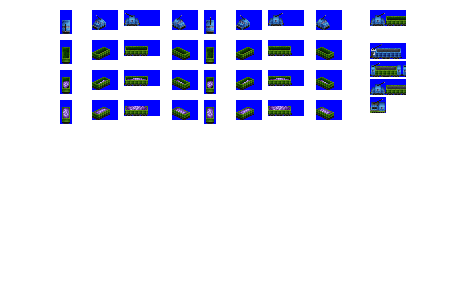
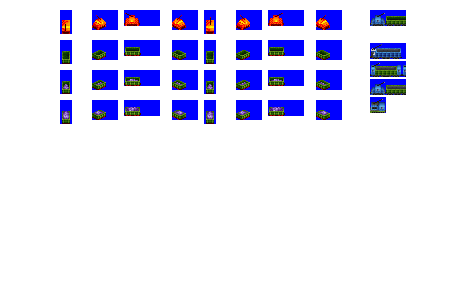
Change: 4/8 long wagons for Hake Lake Feldbahn, also update graphics generation pipelines to insert chassis sprites

diff --git a/src/gestalt_graphics/pipelines.py b/src/gestalt_graphics/pipelines.py
@@ -86,44 +86,16 @@ class ExtendSpriterowsForCompositedCargosPipeline(Pipeline):
         super(ExtendSpriterowsForCompositedCargosPipeline, self).__init__("extend_spriterows_for_composited_cargos_pipeline")
 
     def comp_chassis_and_body(self, body_image):
+        if self.vehicle_unit.chassis is None:
+            return body_image
+
         print(self.chassis_input_path, self.consist.id)
-        return body_image
-        """
         crop_box_input_1 = (0,
                             10,
                             self.sprites_max_x_extent,
                             10 + graphics_constants.spriterow_height)
         chassis_image = Image.open(self.chassis_input_path).crop(crop_box_input_1)
-
-        # roof is composited (N.B. gangways are not, just draw them in vehicle sprite, handling asymmetric railcar cases would be one step too far on automation)
-        if self.vehicle_unit.roof is not None:
-            crop_box_roof_dest = (0,
-                                0,
-                                self.sprites_max_x_extent,
-                                graphics_constants.spriterow_height)
-            roof_image = Image.open(self.roof_input_path).crop(crop_box_input_1)
-
-            # the roof image has false colour pixels to aid drawing; remove these by converting to white, also convert any blue to white
-            roof_image = roof_image.point(lambda i: 255 if i == 226 else i)
-
-            # create a mask so that we paste only the roof pixels over the chassis (no blue pixels)
-            roof_mask = roof_image.copy()
-            roof_mask = roof_mask.point(lambda i: 0 if i == 255 else 255).convert("1") # the inversion here of blue and white looks a bit odd, but potato / potato
-            chassis_image.paste(roof_image, crop_box_roof_dest, roof_mask)
-
-        # chassis and roofs are *always* symmetrical, with 4 angles drawn; for vehicles with asymmetric bodies, copy and paste to provide all 8 angles
-        if self.vehicle_unit.symmetry_type == 'asymmetric':
-            crop_box_input_2 = (self.global_constants.spritesheet_bounding_boxes_symmetric_unreversed[4][0],
-                                0,
-                                self.sprites_max_x_extent,
-                                0 + graphics_constants.spriterow_height)
-            chassis_image_2 = chassis_image.copy().crop(crop_box_input_2)
-
-            crop_box_input_2_dest = (self.global_constants.spritesheet_bounding_boxes_asymmetric_unreversed[0][0],
-                                     0,
-                                     self.global_constants.spritesheet_bounding_boxes_asymmetric_unreversed[0][0] + chassis_image_2.size[0],
-                                     0 + graphics_constants.spriterow_height)
-            chassis_image.paste(chassis_image_2, crop_box_input_2_dest)
+        #chassis_image.show()
 
         # the body image has false colour pixels for the chassis, to aid drawing; remove these by converting to white, also convert any blue to white
         body_image = body_image.point(lambda i: 255 if (i in range(178, 192) or i == 0) else i)
@@ -142,13 +114,12 @@ class ExtendSpriterowsForCompositedCargosPipeline(Pipeline):
 
         #chassis_image.show()
         return chassis_image
-        """
 
     def add_generic_spriterow(self):
         crop_box_source = (0,
                            self.base_offset,
-                           graphics_constants.spritesheet_width,
-                            self.base_offset + graphics_constants.spriterow_height)
+                           self.sprites_max_x_extent,
+                           self.base_offset + graphics_constants.spriterow_height)
         vehicle_generic_spriterow_input_image = self.comp_chassis_and_body(self.vehicle_source_image.copy().crop(crop_box_source))
         # vehicle_generic_spriterow_input_image.show() # comment in to see the image when debugging
         vehicle_generic_spriterow_input_as_spritesheet = self.make_spritesheet_from_image(vehicle_generic_spriterow_input_image)
@@ -164,8 +135,8 @@ class ExtendSpriterowsForCompositedCargosPipeline(Pipeline):
         # to be more similar to piece cargo handling, but using recolour not actual sprites
         crop_box_source = (0,
                            self.base_offset,
-                           graphics_constants.spritesheet_width,
-                            self.base_offset + graphics_constants.spriterow_height)
+                           self.sprites_max_x_extent,
+                           self.base_offset + graphics_constants.spriterow_height)
         vehicle_livery_only_spriterow_input_image = self.comp_chassis_and_body(self.vehicle_source_image.copy().crop(crop_box_source))
         # vehicle_generic_spriterow_input_image.show() # comment in to see the image when debugging
         vehicle_livery_only_spriterow_input_as_spritesheet = self.make_spritesheet_from_image(vehicle_livery_only_spriterow_input_image)
@@ -179,20 +150,44 @@ class ExtendSpriterowsForCompositedCargosPipeline(Pipeline):
             self.units.append(SimpleRecolour(recolour_map))
 
     def add_bulk_cargo_spriterows(self):
-        cargo_group_row_height = 2 * graphics_constants.spriterow_height
-        crop_box_source = (0,
-                           self.base_offset,
-                           graphics_constants.spritesheet_width,
-                           self.base_offset + cargo_group_row_height)
-        vehicle_bulk_cargo_input_image = self.comp_chassis_and_body(self.vehicle_source_image.copy().crop(crop_box_source))
+        crop_box_source_1 = (0,
+                             self.base_offset,
+                             self.sprites_max_x_extent,
+                             self.base_offset + graphics_constants.spriterow_height)
+        crop_box_source_2 = (0,
+                             self.base_offset + graphics_constants.spriterow_height,
+                             self.sprites_max_x_extent,
+                             self.base_offset + (2 * graphics_constants.spriterow_height))
+        vehicle_bulk_cargo_input_image_1 = self.comp_chassis_and_body(self.vehicle_source_image.copy().crop(crop_box_source_1))
+        vehicle_bulk_cargo_input_image_2 = self.comp_chassis_and_body(self.vehicle_source_image.copy().crop(crop_box_source_2))
         #vehicle_bulk_cargo_input_image.show() # comment in to see the image when debugging
-        vehicle_bulk_cargo_input_as_spritesheet = self.make_spritesheet_from_image(vehicle_bulk_cargo_input_image)
+
+        cargo_group_row_height = 2 * graphics_constants.spriterow_height
+        bulk_cargo_rows_image = Image.new("P", (graphics_constants.spritesheet_width, cargo_group_row_height), 255)
+        bulk_cargo_rows_image.putpalette(DOS_PALETTE)
+
+        crop_box_comp_dest_1 = (0,
+                                0,
+                                self.sprites_max_x_extent,
+                                graphics_constants.spriterow_height)
+        crop_box_comp_dest_2 = (0,
+                                graphics_constants.spriterow_height,
+                                self.sprites_max_x_extent,
+                                2 * graphics_constants.spriterow_height)
+
+        # paste the empty state into two rows, then paste the cargo over those rows
+        bulk_cargo_rows_image.paste(vehicle_bulk_cargo_input_image_1, crop_box_comp_dest_1)
+        bulk_cargo_rows_image.paste(vehicle_bulk_cargo_input_image_2, crop_box_comp_dest_2)
+
+        bulk_cargo_rows_image_as_spritesheet = self.make_spritesheet_from_image(bulk_cargo_rows_image)
+
         crop_box_dest = (0,
                          0,
-                         graphics_constants.spritesheet_width,
+                         self.sprites_max_x_extent,
                          cargo_group_row_height)
+
         for label, recolour_map in polar_fox.constants.bulk_cargo_recolour_maps:
-            self.units.append(AppendToSpritesheet(vehicle_bulk_cargo_input_as_spritesheet, crop_box_dest))
+            self.units.append(AppendToSpritesheet(bulk_cargo_rows_image_as_spritesheet, crop_box_dest))
             self.units.append(SimpleRecolour(recolour_map))
 
     def add_piece_cargo_spriterows(self):
@@ -213,9 +208,9 @@ class ExtendSpriterowsForCompositedCargosPipeline(Pipeline):
         # an overlay for the vehicle, created from the vehicle empty state spriterow, and comped with the mask after each cargo has been placed
         # there is a case not handled, where long cargo sprites will cabbed vehicles in / direction with cab at N end, hard to solve
         crop_box_vehicle_cargo_loc_row = (0,
-                           self.base_offset,
-                           graphics_constants.spritesheet_width,
-                           self.base_offset + graphics_constants.spriterow_height)
+                                          self.base_offset,
+                                          graphics_constants.spritesheet_width,
+                                          self.base_offset + graphics_constants.spriterow_height)
         vehicle_cargo_loc_image = self.vehicle_source_image.copy().crop(crop_box_vehicle_cargo_loc_row)
         # get the loc points
         loc_points = [pixel for pixel in pixascan(vehicle_cargo_loc_image) if pixel[2] == 226]
@@ -223,38 +218,47 @@ class ExtendSpriterowsForCompositedCargosPipeline(Pipeline):
         loc_points.extend([(pixel[0], pixel[1] + 30, pixel[2]) for pixel in loc_points])
         # sort them in y order, this causes sprites to overlap correctly when there are multiple loc points for an angle
         loc_points = sorted(loc_points, key=lambda x: x[1])
-        crop_box_vehicle_base = (0,
-                           self.cur_vehicle_empty_row_offset,
-                           graphics_constants.spritesheet_width,
-                           self.cur_vehicle_empty_row_offset + graphics_constants.spriterow_height)
-        vehicle_base_image = self.comp_chassis_and_body(self.vehicle_source_image.copy().crop(crop_box_vehicle_base))
-        #vehicle_base_image.show()
-        crop_box_mask = (0,
-                         self.base_offset + graphics_constants.spriterow_height,
-                         graphics_constants.spritesheet_width,
-                         self.base_offset + (2 * graphics_constants.spriterow_height))
+
+        crop_box_vehicle_body = (0,
+                                 self.cur_vehicle_empty_row_offset,
+                                 self.sprites_max_x_extent,
+                                 self.cur_vehicle_empty_row_offset + graphics_constants.spriterow_height)
+        vehicle_base_image = self.comp_chassis_and_body(self.vehicle_source_image.copy().crop(crop_box_vehicle_body))
+
+        crop_box_mask_source = (0,
+                                self.base_offset + graphics_constants.spriterow_height,
+                                self.sprites_max_x_extent,
+                                self.base_offset + (2 * graphics_constants.spriterow_height))
+        crop_box_mask_dest = (0,
+                              0,
+                              self.sprites_max_x_extent,
+                              graphics_constants.spriterow_height)
         # !! this will need a composited mask, combining the chassis mask with the body mask
-        vehicle_mask = self.vehicle_source_image.copy().crop(crop_box_mask).point(lambda i: 255 if i == 226 else 0).convert("1")
+        vehicle_mask_source = self.vehicle_source_image.copy().crop(crop_box_mask_source).point(lambda i: 255 if i == 226 else 0).convert("1")
+        vehicle_mask = Image.new("1", (self.sprites_max_x_extent, graphics_constants.spriterow_height), 0)
+        vehicle_mask.paste(vehicle_mask_source, crop_box_mask_dest)
         #vehicle_mask.show()
         #mask and empty state will need pasting once for each of two cargo rows, so two crop boxes needed
         crop_box_comp_dest_1 = (0,
                                 0,
-                                graphics_constants.spritesheet_width,
+                                self.sprites_max_x_extent,
                                 graphics_constants.spriterow_height)
         crop_box_comp_dest_2 = (0,
                                 graphics_constants.spriterow_height,
-                                graphics_constants.spritesheet_width,
+                                self.sprites_max_x_extent,
                                 2 * graphics_constants.spriterow_height)
-        vehicle_cargo_rows_image = Image.new("P", (graphics_constants.spritesheet_width, cargo_group_output_row_height))
-        vehicle_cargo_rows_image.putpalette(DOS_PALETTE)
+
+        piece_cargo_rows_image = Image.new("P", (graphics_constants.spritesheet_width, cargo_group_output_row_height))
+        piece_cargo_rows_image.putpalette(DOS_PALETTE)
         # paste empty states in for the cargo rows (base image = empty state)
-        vehicle_cargo_rows_image.paste(vehicle_base_image, crop_box_comp_dest_1)
-        vehicle_cargo_rows_image.paste(vehicle_base_image, crop_box_comp_dest_2)
-        #vehicle_cargo_rows_image.show()
+        piece_cargo_rows_image.paste(vehicle_base_image, crop_box_comp_dest_1)
+        piece_cargo_rows_image.paste(vehicle_base_image, crop_box_comp_dest_2)
+        #piece_cargo_rows_image.show()
         crop_box_dest = (0,
                          0,
-                         graphics_constants.spritesheet_width,
+                         self.sprites_max_x_extent,
                          cargo_group_output_row_height)
+
         for cargo_labels, cargo_filenames in self.consist.gestalt_graphics.piece_cargo_maps:
             for cargo_filename in cargo_filenames:
                 cargo_sprites_input_path = os.path.join(currentdir, 'src', 'polar_fox', 'cargo_graphics', cargo_filename + '.png')
@@ -264,6 +268,8 @@ class ExtendSpriterowsForCompositedCargosPipeline(Pipeline):
                 # cargo sprites are assumed to be symmetrical, only 4 angles are needed
                 # for cargos with 8 angles (e.g. bulldozers), provide those manually as custom cargos?
                 # loading states are first 4 sprites, loaded are second 4, all in one list
+
+                # !!! replace with get_arbitrary_angles() from Iron Horse pipelines
                 for bboxes in cargo_spritesheet_bounding_boxes[self.vehicle_unit.cargo_length]:
                     for i in bboxes:
                         cargo_sprite = cargo_sprites_input_image.copy()
@@ -273,7 +279,8 @@ class ExtendSpriterowsForCompositedCargosPipeline(Pipeline):
                         # !! check this again if optimisation is a concern - can cargos be processed once and passed to the pipeline?
                         cargo_mask = cargo_mask.point(lambda i: 0 if i == 0 else 255).convert("1")
                         cargo_sprites.append((cargo_sprite, cargo_mask))
-                vehicle_comped_image = vehicle_cargo_rows_image.copy()
+
+                vehicle_comped_image = piece_cargo_rows_image.copy()
                 for pixel in loc_points:
                     angle_num = 0
                     for counter, bbox in enumerate(self.global_constants.spritesheet_bounding_boxes):
@@ -306,6 +313,7 @@ class ExtendSpriterowsForCompositedCargosPipeline(Pipeline):
         self.units = [] # graphics units not same as consist units ! confusing overlap of terminology :(
         self.consist = consist
         self.global_constants = global_constants
+        self.sprites_max_x_extent = self.global_constants.sprites_max_x_extent
 
         self.vehicle_source_image = Image.open(self.vehicle_source_input_path)
 

diff --git a/src/road_vehicle.py b/src/road_vehicle.py
@@ -236,6 +236,7 @@ class Consist(object):
         consist_weight = mult * self.total_capacities[1]
         if consist_weight > 63:
             utils.echo_message("Error: consist weight is " + str(consist_weight) + "t for " + self.id + "; must be < 63t")
+            utils.echo_message("Reimplement weight property as callback (cb36 isn't capped to 63.75t)")
         return min(consist_weight, 63)
 
     @property
@@ -494,7 +495,7 @@ class RoadVehicle(object):
         # can also be used to suppress compile failures during testing when spritesheet is unfinished (missing rows etc)
         self.always_use_same_spriterow = kwargs.get('always_use_same_spriterow', False)
         # optional - only set if the graphics processor generates the vehicle chassis
-        self.chassis = kwargs.get('chassis', 'test')
+        self.chassis = kwargs.get('chassis', None)
         # only set if the graphics processor requires it to generate cargo sprites
         # defines the size of cargo sprite to use
         # if the vehicle cargo area is not an OTTD unit length, use the next size up and the masking will sort it out

diff --git a/src/global_constants.py b/src/global_constants.py
@@ -28,6 +28,10 @@ semi_truck_offset_jank = ((0, 1), (-2, 1), (-5, 0), (-2, 1), (0, 0), (-2, 1), (-
 spritesheet_bounding_boxes = ((60, 12, 24), (92, 26, 20), (124, 36, 16), (172, 26, 20),
                               (204, 12, 24), (236, 26, 20), (268, 36, 16), (316, 26, 20))
 
+# rather than total spritesheet width, we often need to know the max x extent that actually contains sprites
+# this is calculated from bounding boxes
+sprites_max_x_extent = spritesheet_bounding_boxes[7][0] + spritesheet_bounding_boxes[7][1]
+
 buy_menu_sprite_width = 36 # 36 is correct, but some spritesheets might have wrong widths due to copy-pasteo etc
 buy_menu_sprite_height = 16
 

diff --git a/src/vehicles/hake_lake_dump.py b/src/vehicles/hake_lake_dump.py
@@ -9,8 +9,10 @@ consist = DumpFeldbahn(id='hake_lake_dump',
 consist.add_unit(type=ElectricRoadVehicle,
                  capacity=0,
                  vehicle_length=4,
+                 chassis='feldbahn_1',
                  always_use_same_spriterow=True)
 
-consist.add_unit(capacity=36,
-                 vehicle_length=6,
-                 repeat=5)
+consist.add_unit(capacity=28,
+                 vehicle_length=4,
+                 chassis='4_axle_feldbahn_16px',
+                 repeat=7)
